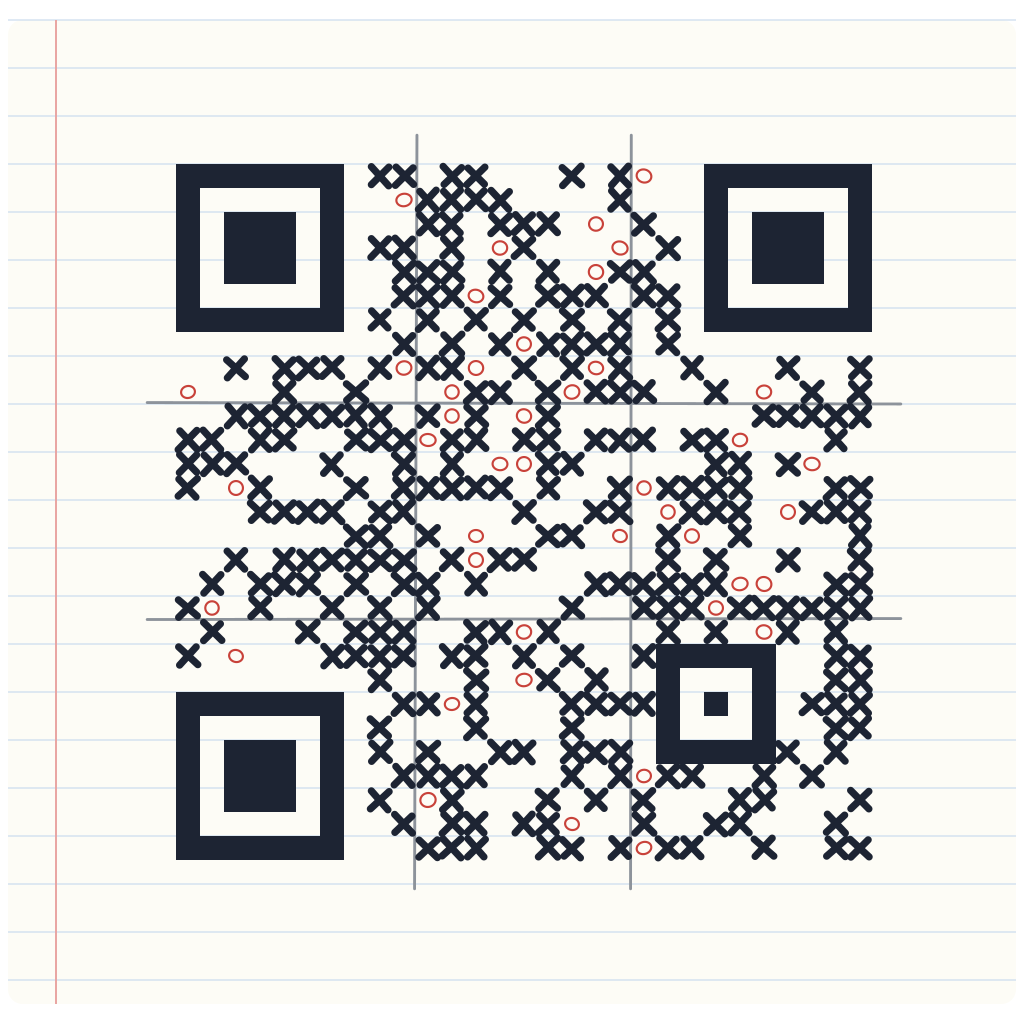
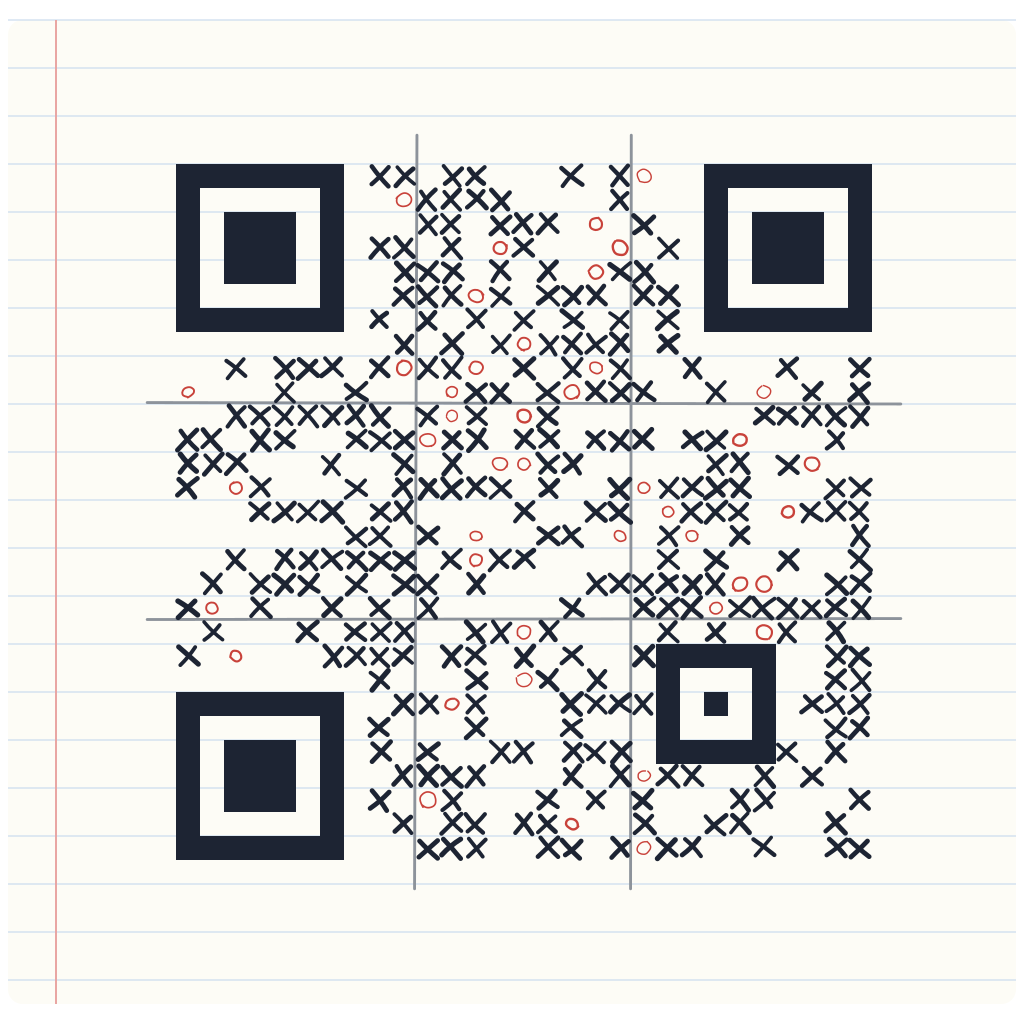
style: draw Tic-Tac-Toe's X's and O's by hand
X's are thinner, each stroke its own length, angle, bow and width; O's are
uneven loops of varying size, roundness, tilt and weight that overshoot or
stop short. Both still keep each module's middle dark or light.

Claude-Session: https://claude.ai/code/session_01VbyYxozHcVTyuPyhhYTroQ

Changed region(s): [[0.1562, 0.1562, 0.875, 0.8438]]

diff --git a/src/games.ts b/src/games.ts
@@ -331,9 +331,10 @@ export function seaBattle(
 // Tic-Tac-Toe: a game played out on a sheet of notebook paper. Faint blue
 // rules, a red margin line, and the game's big # drawn in pencil across the
 // code, its strokes on the modules' edges. The code's dark modules are X's
-// in a dark marker, their strokes crossing each module's middle, where
-// scanners sample; a few light modules hold red O's, rings with the paper
-// showing through their middles. Under the finder and alignment patterns,
+// in a dark marker, each stroke its own length, angle, bow and width, as
+// drawn quickly by hand, both crossing the module's middle, where scanners
+// sample; a few light modules hold red O's, uneven loops that overshoot or
+// stop short, with the paper showing through their middles. Under the finder and alignment patterns,
 // marker-filled squares, so scanners find those shapes whole. Text above and
 // below is handwritten in pencil.
 const NOTEBOOK = "#fdfcf6",
@@ -342,10 +343,47 @@ const NOTEBOOK = "#fdfcf6",
   PENCIL = "#8d939b",
   MARKER_X = "#1d2433",
   MARKER_O = "#c8423a",
-  // An X's stroke width and how far its ends stop short of the module's
-  // corners, in modules
-  X_STROKE = 0.3,
-  X_INSET = 0.13;
+  // An X's strokes: their width, from thinnest to thickest, and how far
+  // their ends stop short of the module's corners, in modules
+  X_STROKE = [0.15, 0.22],
+  X_INSET = 0.14;
+// A hand-drawn stroke from (x1, y1) to (x2, y2), bowed a little to one side
+function handStroke(x1: number, y1: number, x2: number, y2: number, bow: number) {
+  const mx = (x1 + x2) / 2,
+    my = (y1 + y2) / 2,
+    dx = x2 - x1,
+    dy = y2 - y1,
+    length = Math.hypot(dx, dy);
+  return `M${round(x1)} ${round(y1)}Q${round(mx - (dy / length) * bow)} ${round(my + (dx / length) * bow)} ${round(x2)} ${round(y2)}`;
+}
+// A hand-drawn O around (cx, cy): a loop of uneven radius, started at a
+// random angle and carried a little past where it began, or stopped a
+// little short
+function handLoop(cx: number, cy: number, r: number, squash: number, turn: number, seed: number) {
+  const steps = 10,
+    start = unit(seed, 1, 96) * Math.PI * 2,
+    sweep = Math.PI * 2 * (0.94 + unit(seed, 2, 96) * 0.16),
+    point = (i: number) => {
+      const a = start + (sweep * i) / steps,
+        wobble = 1 + (unit(seed, i + 3, 97) - 0.5) * 0.14,
+        x = Math.cos(a) * r * wobble,
+        y = Math.sin(a) * r * squash * wobble;
+      return [
+        cx + x * Math.cos(turn) - y * Math.sin(turn),
+        cy + x * Math.sin(turn) + y * Math.cos(turn),
+      ];
+    };
+  // Smoothed through the midpoints between the points
+  const pts = Array.from({ length: steps + 1 }, (_, i) => point(i));
+  let d = `M${round(pts[0][0])} ${round(pts[0][1])}`;
+  for (let i = 1; i < pts.length - 1; i++) {
+    const [px, py] = pts[i],
+      [nx, ny] = pts[i + 1];
+    d += `Q${round(px)} ${round(py)} ${round((px + nx) / 2)} ${round((py + ny) / 2)}`;
+  }
+  const [lx, ly] = pts[pts.length - 1];
+  return d + `L${round(lx)} ${round(ly)}`;
+}
 export function ticTacToe(
   modules: BitMatrix,
   size: number,
@@ -400,19 +438,26 @@ export function ticTacToe(
           squares += `M${X} ${Y}h1v1h-1z`;
           continue;
         }
-        const j = (salt: number) => round((unit(x, y, salt) - 0.5) * 0.08),
+        // Two strokes, each its own length, angle, bow and width, as drawn
+        // quickly by hand; both cross the module's middle
+        const j = (salt: number) => (unit(x, y, salt) - 0.5) * 0.16,
           a = X_INSET,
-          b = 1 - X_INSET;
-        xs += `M${round(X + a + j(1))} ${round(Y + a + j(2))}L${round(X + b + j(3))} ${round(Y + b + j(4))}`;
-        xs += `M${round(X + b + j(5))} ${round(Y + a + j(6))}L${round(X + a + j(7))} ${round(Y + b + j(8))}`;
+          b = 1 - X_INSET,
+          width = (salt: number) =>
+            round(X_STROKE[0] + unit(x, y, salt) * (X_STROKE[1] - X_STROKE[0])),
+          bow = (salt: number) => round((unit(x, y, salt) - 0.5) * 0.14);
+        xs += `<path d="${handStroke(X + a + j(1), Y + a + j(2), X + b + j(3), Y + b + j(4), bow(9))}" stroke-width="${width(11)}"/>`;
+        xs += `<path d="${handStroke(X + b + j(5), Y + a + j(6), X + a + j(7), Y + b + j(8), bow(10))}" stroke-width="${width(12)}"/>`;
         continue;
       }
       if (modules.isReserved(y, x) || unit(x, y, 92) > oRate) continue;
-      // An O, a little oval and turned, open in the middle
-      const rx = round(0.3 + (unit(x, y, 93) - 0.5) * 0.04),
-        ry = round(0.27 + (unit(x, y, 94) - 0.5) * 0.04),
-        turn = Math.round((unit(x, y, 95) - 0.5) * 40);
-      os += `<ellipse cx="${X + 0.5}" cy="${Y + 0.5}" rx="${rx}" ry="${ry}" transform="rotate(${turn} ${X + 0.5} ${Y + 0.5})"/>`;
+      // An O: its size, roundness, tilt and line all its own, open in the
+      // middle
+      const r = 0.24 + unit(x, y, 93) * 0.11,
+        squash = 0.78 + unit(x, y, 94) * 0.22,
+        turn = (unit(x, y, 95) - 0.5) * 1.6,
+        weight = round(0.06 + unit(x, y, 98) * 0.04);
+      os += `<path d="${handLoop(X + 0.5, Y + 0.5, r, squash, turn, hash(x, y, 99) % 100000)}" stroke-width="${weight}"/>`;
     }
   let text = "";
   if (lines.above || lines.below) {
@@ -422,5 +467,5 @@ export function ticTacToe(
     if (lines.below)
       text += lettering(lines.below, em, bx + q / 2, by + q + (row + CAP * em) / 2, HANDWRITING);
   }
-  return `${svgOpen(size, "white")}<g transform="translate(${left} ${top}) scale(${k})"><rect width="${width}" height="${height}" rx=".6" fill="${NOTEBOOK}"/><path d="${rules}" stroke="${NOTEBOOK_RULE}" stroke-width=".06"/><path d="M${margin - 1} 0V${height}" stroke="${MARGIN_RULE}" stroke-width=".08"/><path d="${hashMark}" stroke="${PENCIL}" stroke-width=".12" stroke-linecap="round"/><g fill="none" stroke="${MARKER_O}" stroke-width=".09">${os}</g><path d="${squares}" fill="${MARKER_X}" shape-rendering="crispEdges"/><path d="${xs}" stroke="${MARKER_X}" stroke-width="${X_STROKE}" stroke-linecap="round"/>${text ? `<g fill="${PENCIL}">${text}</g>` : ""}</g></svg>`;
+  return `${svgOpen(size, "white")}<g transform="translate(${left} ${top}) scale(${k})"><rect width="${width}" height="${height}" rx=".6" fill="${NOTEBOOK}"/><path d="${rules}" stroke="${NOTEBOOK_RULE}" stroke-width=".06"/><path d="M${margin - 1} 0V${height}" stroke="${MARGIN_RULE}" stroke-width=".08"/><path d="${hashMark}" stroke="${PENCIL}" stroke-width=".12" stroke-linecap="round"/><g fill="none" stroke="${MARKER_O}" stroke-linecap="round" stroke-linejoin="round">${os}</g><path d="${squares}" fill="${MARKER_X}" shape-rendering="crispEdges"/><g fill="none" stroke="${MARKER_X}" stroke-linecap="round">${xs}</g>${text ? `<g fill="${PENCIL}">${text}</g>` : ""}</g></svg>`;
 }
